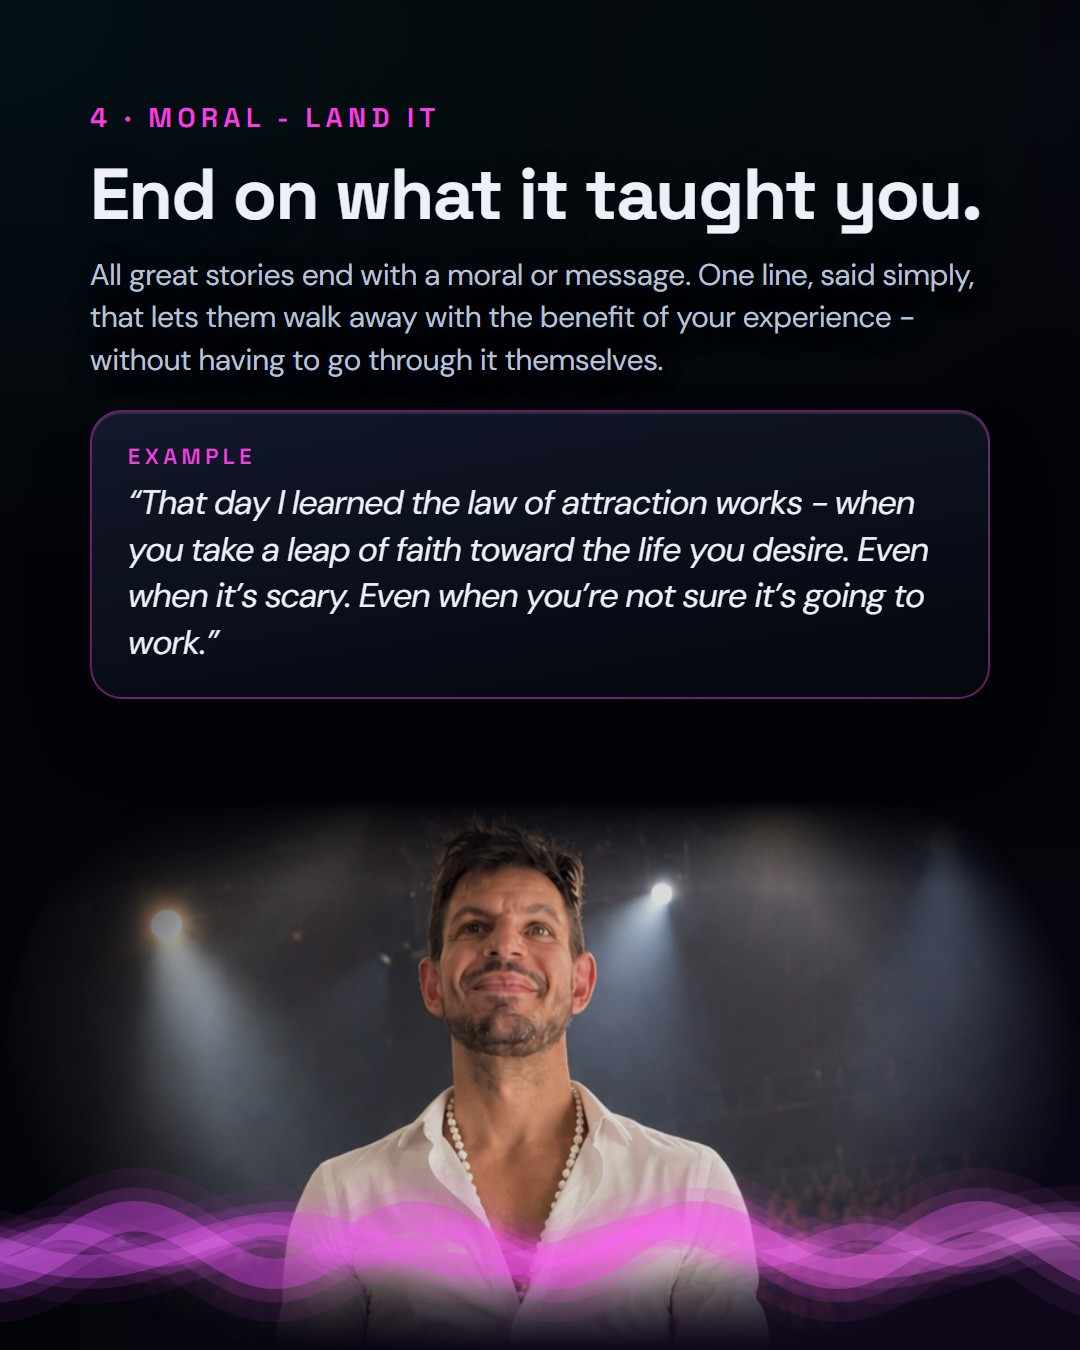
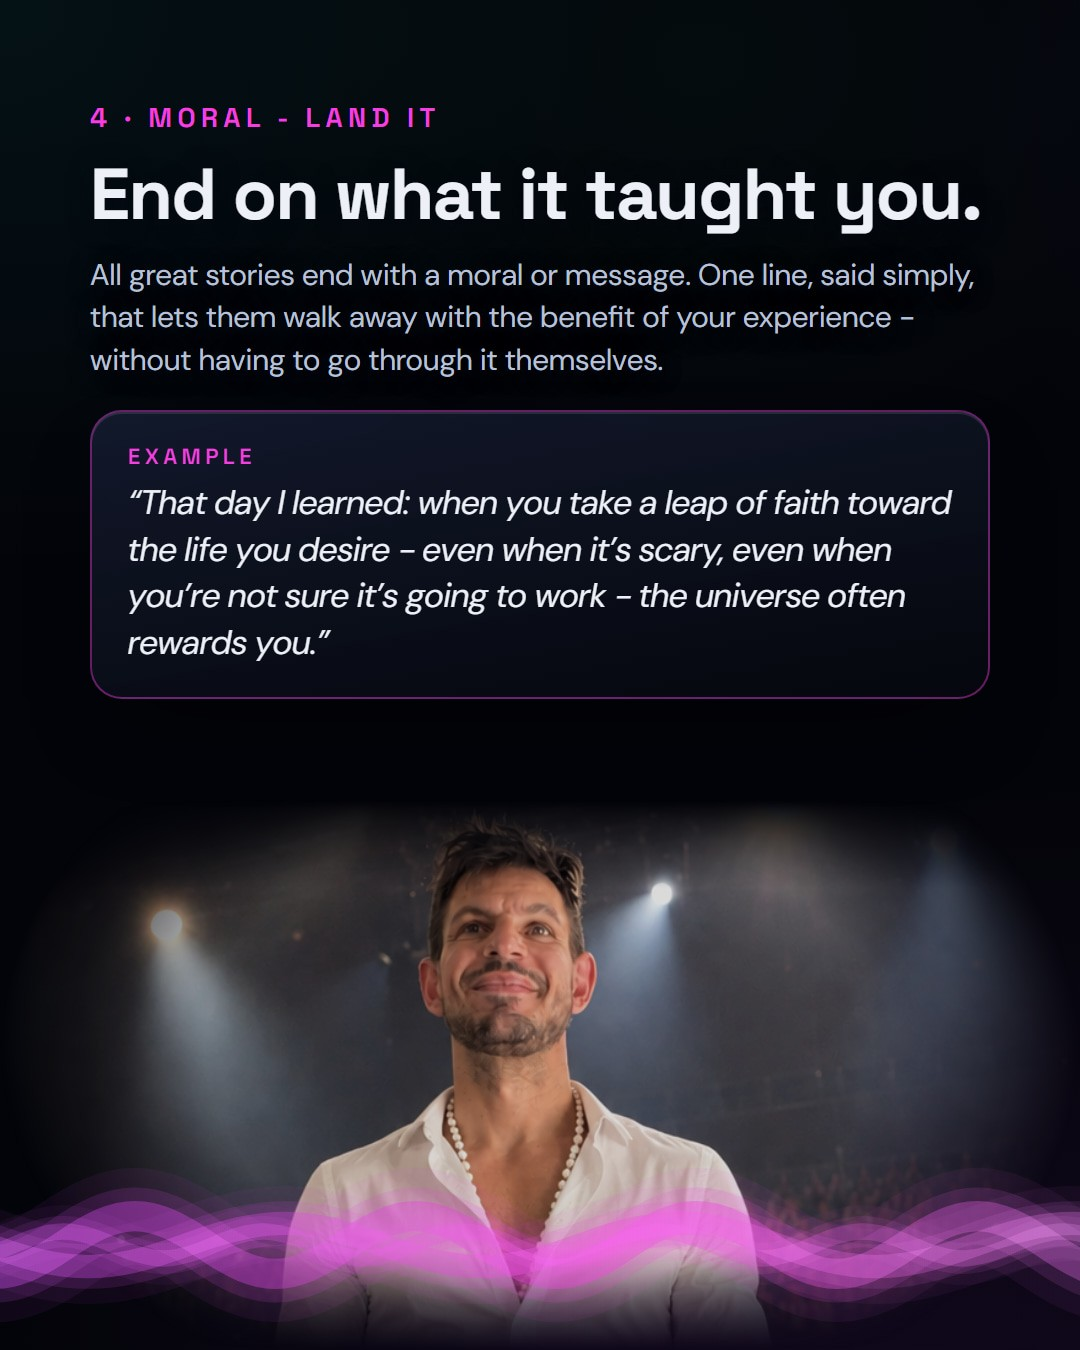
Phone deck viewer: Post 4 black - slide 9, the moral reworded

Changed region(s): [[0.1222, 0.3422, 0.8861, 0.4978]]

diff --git a/public/d-BlBAiR0ZRDrG/post4-black.html b/public/d-BlBAiR0ZRDrG/post4-black.html
@@ -6,8 +6,8 @@ main{max-width:540px;margin:0 auto;padding:16px 16px 48px}h1{font-size:18px;marg
 .pano{overflow-x:auto;border-radius:8px}.pano img{height:260px;display:block}h2{font-size:14px;margin:22px 0 8px;color:#B9C0D8}.nav{position:absolute;top:50%;transform:translateY(-50%);width:46px;height:46px;border-radius:50%;border:1px solid rgba(255,255,255,.25);background:rgba(7,11,24,.72);color:#fff;font-size:26px;line-height:1;cursor:pointer;display:flex;align-items:center;justify-content:center;backdrop-filter:blur(6px)}
 .nav:disabled{opacity:.25;cursor:default}#prev{left:10px}#next{right:10px}.dots i{cursor:pointer;width:9px;height:9px}.count{text-align:center;font-size:13px;color:#8790AB;margin-top:-8px}</style></head><body><main>
 <a href="index.html">‹ All</a><h1>Post 4 · How to Tell Epic Stories - black</h1><small>15 slides · swipe like Instagram</small><small style="display:block;margin:6px 0">Version: <a href="post4.html">Glassy gradient</a> · <a href="post4-black.html">Black</a></small>
-<div class="wrap"><div class="car" id="c"><img src="post4-black/01.jpg?v=23" alt="Slide 1"><img src="post4-black/02.jpg?v=23" alt="Slide 2"><img src="post4-black/03.jpg?v=23" alt="Slide 3"><img src="post4-black/04.jpg?v=23" alt="Slide 4"><img src="post4-black/05.jpg?v=23" alt="Slide 5"><img src="post4-black/06.jpg?v=23" alt="Slide 6"><img src="post4-black/07.jpg?v=23" alt="Slide 7"><img src="post4-black/08.jpg?v=23" alt="Slide 8"><img src="post4-black/09.jpg?v=23" alt="Slide 9"><img src="post4-black/10.jpg?v=23" alt="Slide 10"><img src="post4-black/11.jpg?v=23" alt="Slide 11"><img src="post4-black/12.jpg?v=23" alt="Slide 12"><img src="post4-black/13.jpg?v=23" alt="Slide 13"><img src="post4-black/14.jpg?v=23" alt="Slide 14"><img src="post4-black/15.jpg?v=23" alt="Slide 15"></div><button class="nav" id="prev" aria-label="Previous slide">&#8249;</button><button class="nav" id="next" aria-label="Next slide">&#8250;</button></div><div class="dots" id="d"><i></i><i></i><i></i><i></i><i></i><i></i><i></i><i></i><i></i><i></i><i></i><i></i><i></i><i></i><i></i></div><p class="count" id="n"></p>
-<h2>The whole panorama (scroll sideways)</h2><div class="pano"><img src="post4-black/panorama.jpg?v=23" alt="Full panorama"></div>
+<div class="wrap"><div class="car" id="c"><img src="post4-black/01.jpg?v=24" alt="Slide 1"><img src="post4-black/02.jpg?v=24" alt="Slide 2"><img src="post4-black/03.jpg?v=24" alt="Slide 3"><img src="post4-black/04.jpg?v=24" alt="Slide 4"><img src="post4-black/05.jpg?v=24" alt="Slide 5"><img src="post4-black/06.jpg?v=24" alt="Slide 6"><img src="post4-black/07.jpg?v=24" alt="Slide 7"><img src="post4-black/08.jpg?v=24" alt="Slide 8"><img src="post4-black/09.jpg?v=24" alt="Slide 9"><img src="post4-black/10.jpg?v=24" alt="Slide 10"><img src="post4-black/11.jpg?v=24" alt="Slide 11"><img src="post4-black/12.jpg?v=24" alt="Slide 12"><img src="post4-black/13.jpg?v=24" alt="Slide 13"><img src="post4-black/14.jpg?v=24" alt="Slide 14"><img src="post4-black/15.jpg?v=24" alt="Slide 15"></div><button class="nav" id="prev" aria-label="Previous slide">&#8249;</button><button class="nav" id="next" aria-label="Next slide">&#8250;</button></div><div class="dots" id="d"><i></i><i></i><i></i><i></i><i></i><i></i><i></i><i></i><i></i><i></i><i></i><i></i><i></i><i></i><i></i></div><p class="count" id="n"></p>
+<h2>The whole panorama (scroll sideways)</h2><div class="pano"><img src="post4-black/panorama.jpg?v=24" alt="Full panorama"></div>
 <small style="display:block;margin-top:18px">Private link - please don't share.</small></main>
 <script>const c=document.getElementById("c"),d=[...document.querySelectorAll("#d i")],p=document.getElementById("prev"),x=document.getElementById("next"),n=document.getElementById("n");
 const at=()=>Math.round(c.scrollLeft/c.clientWidth),go=i=>c.scrollTo({left:Math.max(0,Math.min(d.length-1,i))*c.clientWidth,behavior:"smooth"});
